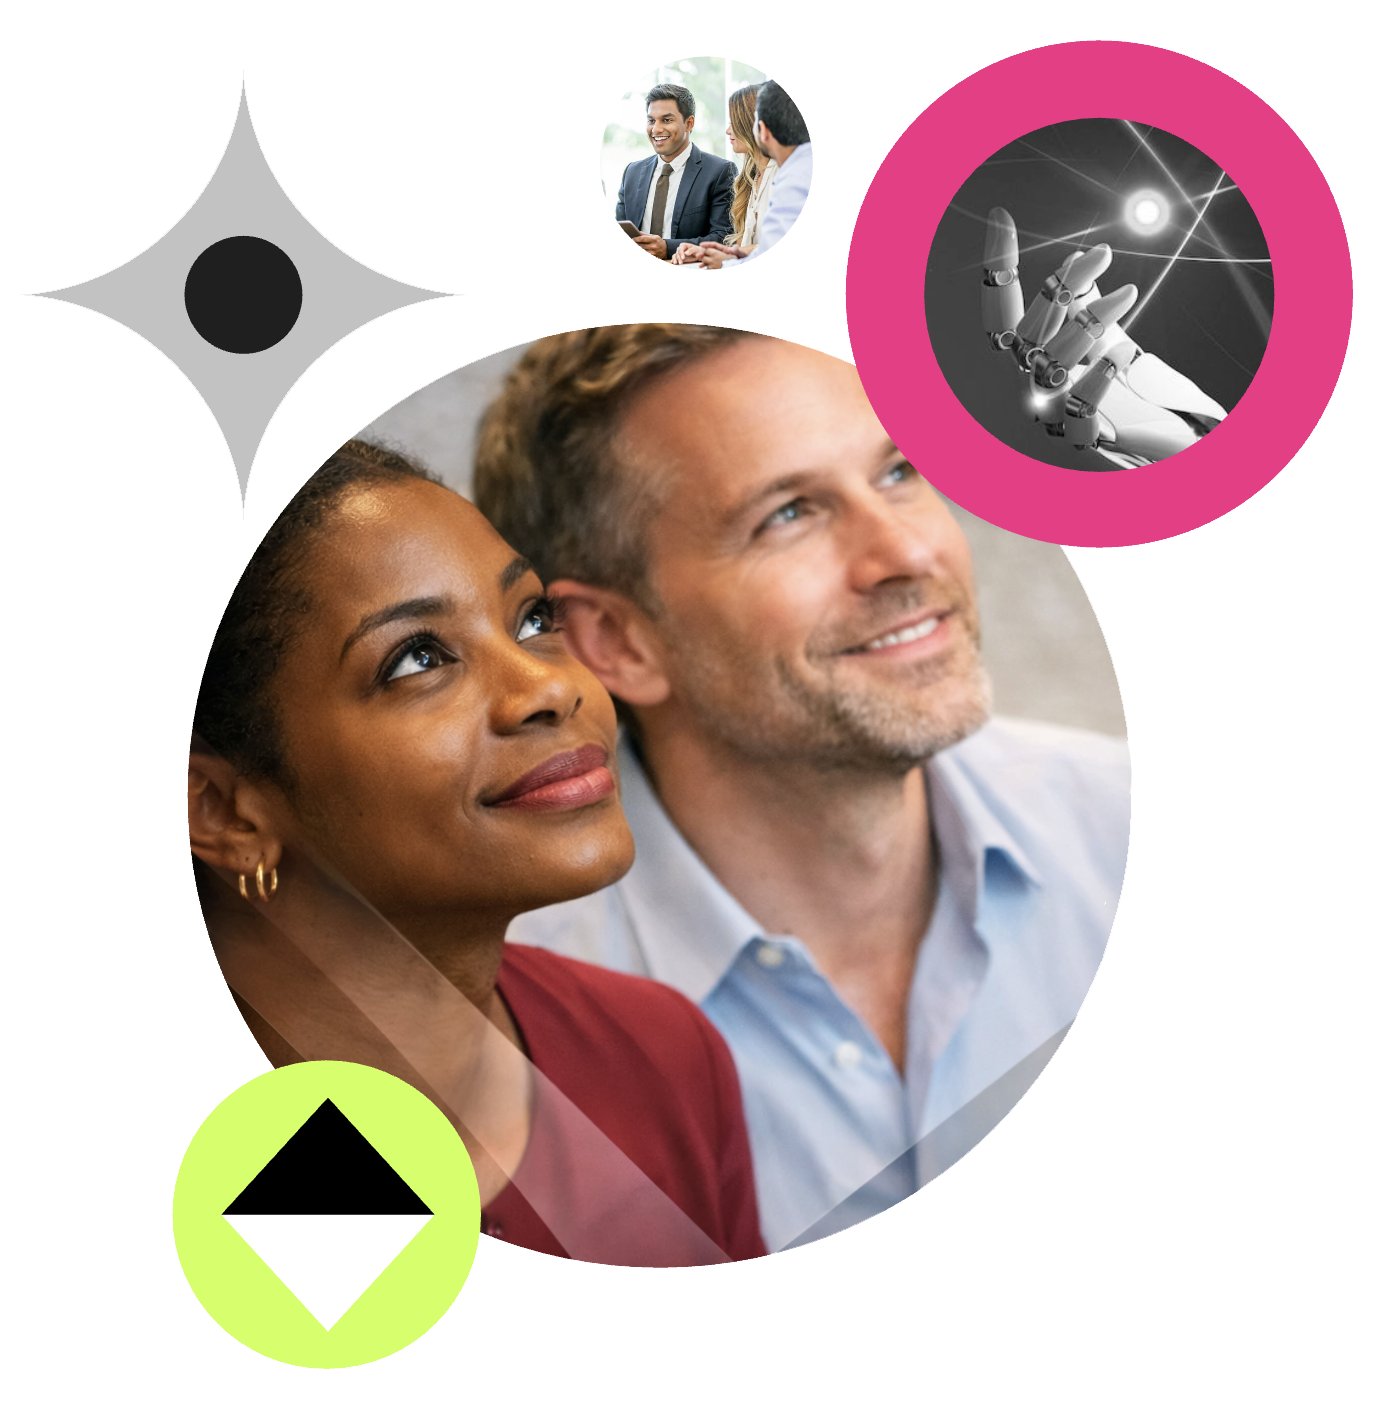
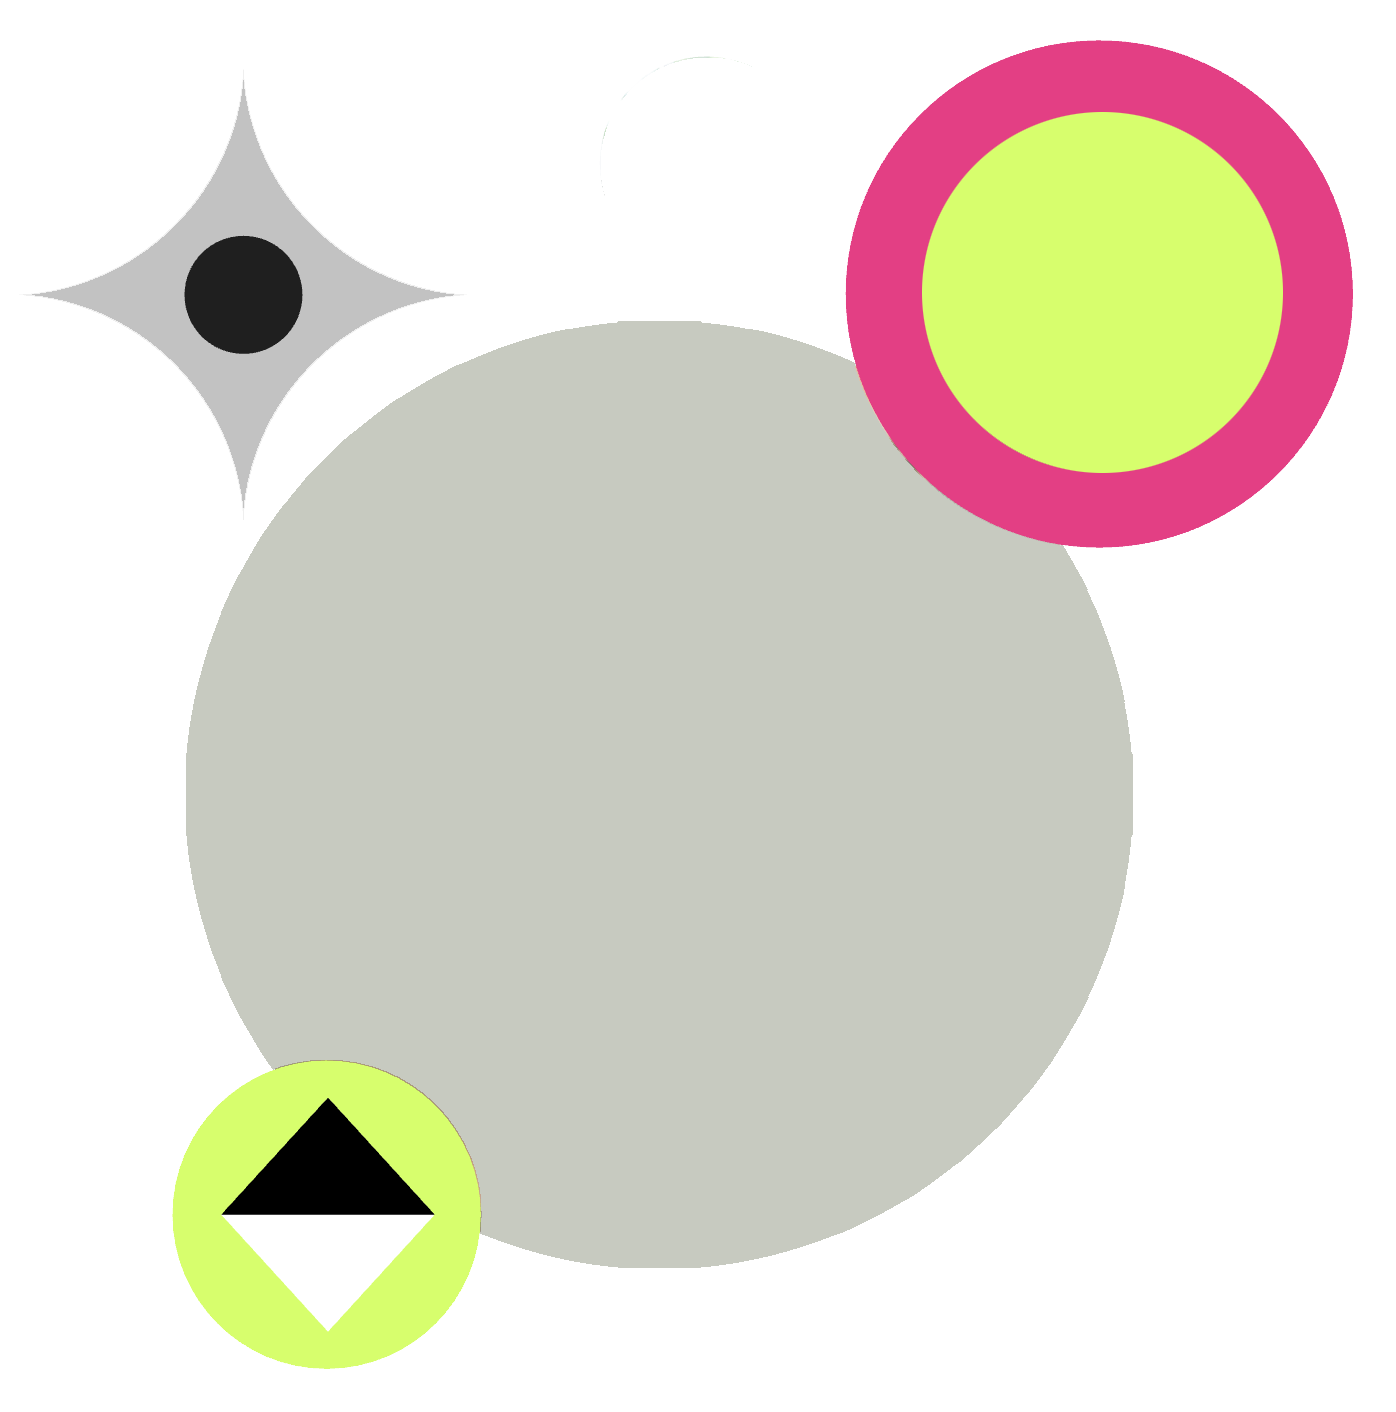
feat: sync home page content and images with updated Figma designs
Update value prop text (Context Layer concept, simplified copy),
stats heading (remove dollar amounts), and replace 6 hero/platform
images with new solid geometric versions from Figma.

diff --git a/src/content/home.ts b/src/content/home.ts
@@ -45,12 +45,12 @@ export const HOME_HERO: HeroContent = {
 export const HOME_VALUE_PROP = {
   leftCard: {
     title:
-      "Your clients are asking about AI... But, they don't want just advice and best practices — They also want real AI implementation!",
-    body: 'oona.works can become your AI foundation for HR transformation projects!\n\nYou bring the consulting expertise.\noona.works provides the AI foundation to deliver intelligence at scale.',
+      'Your clients are asking about AI...\n\nNot just advice.\nNot just best practices.\nBut real AI implementation.',
+    body: 'You bring consulting expertise.\nOona.Works brings the AI foundation to deliver intelligence at scale.',
   } as CardContent,
   rightCard: {
     title: 'What we do!',
-    body: "oona.works empowers HR consulting firms to deliver AI-powered HR transformation to their clients — without building tech in-house!\n\nIt connects to a client's existing HR systems (HRMS, ATS, LMS, PMS) to create a single, structured understanding of their organization. This intelligence layer gives you:\n\n\u2022 A complete view of workforce data across systems\n\u2022 Diagnosis of workforce challenges\n\u2022 AI-driven solutions for real organizational contexts",
+    body: "Oona.Works connects to client\u2019s existing HR systems (HRMS, ATS, LMS, PMS) to create a single, structured understanding of their organization. We call it the \u201CContext Layer\u201D.\n\nOona\u2019s AI agents can then be used on this \u201CContext Layer\u201D to provide clients with intelligent solutions around their workforce, performance, learning, operations or other organisational challenges they are facing.",
     governance:
       'All while ensuring\nEnterprise-grade data governance  I  Full audit trails  I  Secure access',
   } as CardContent,
@@ -131,7 +131,7 @@ export const HOME_LIFECYCLE = {
 
 export const HOME_STATS = {
   heading:
-    'How your $150K\nHR consulting project can become a $450K AI transformation engagement with oona.works',
+    "How \u2018just\u2019 an\nHR consulting project\ncan become an\nAI transformation\nengagement with\noona.works",
   subtitle: 'Simply because we empower you to:',
   ctaLabel: 'Know More',
   ctaHref: 'mailto:oona@oona.works',

diff --git a/src/components/sections/home/ValuePropSection.tsx b/src/components/sections/home/ValuePropSection.tsx
@@ -17,21 +17,30 @@ function renderBodyParagraphs(body: string, className?: string) {
 function RightCardBody({ body }: { body: string }) {
   const lines = body.split('\n');
   const elements: React.ReactNode[] = [];
+  let pastFirstParagraph = false;
 
   for (let i = 0; i < lines.length; i++) {
     const line = lines[i];
     if (line === '') {
       elements.push(<br key={i} />);
+      pastFirstParagraph = true;
     } else if (line.startsWith('•')) {
       elements.push(
         <p key={i} className="typo-body text-foreground">
           {line}
         </p>
       );
-    } else {
-      // Intro sentence — bold and slightly larger
+    } else if (!pastFirstParagraph) {
+      // First paragraph — bold and slightly larger
       elements.push(
         <p key={i} className="typo-body text-foreground font-semibold">
+          {line}
+        </p>
+      );
+    } else {
+      // Subsequent paragraphs — normal weight
+      elements.push(
+        <p key={i} className="typo-body text-foreground">
           {line}
         </p>
       );
@@ -54,7 +63,20 @@ export function ValuePropSection() {
             'bg-surface rounded-[20px] p-6 md:p-[var(--section-padding)]'
           )}
         >
-          <h3 className="typo-h3 text-foreground">{leftCard.title}</h3>
+          <h3 className="typo-h3 text-foreground">
+            {leftCard.title.split('\n').map((line, i, arr) =>
+              line === '' ? (
+                <br key={i} />
+              ) : (
+                <span key={i}>
+                  {line}
+                  {i < arr.length - 1 && line !== '' && arr[i + 1] !== '' && (
+                    <br />
+                  )}
+                </span>
+              )
+            )}
+          </h3>
           <div className="typo-body-lg text-foreground mt-8">
             {renderBodyParagraphs(leftCard.body)}
           </div>
